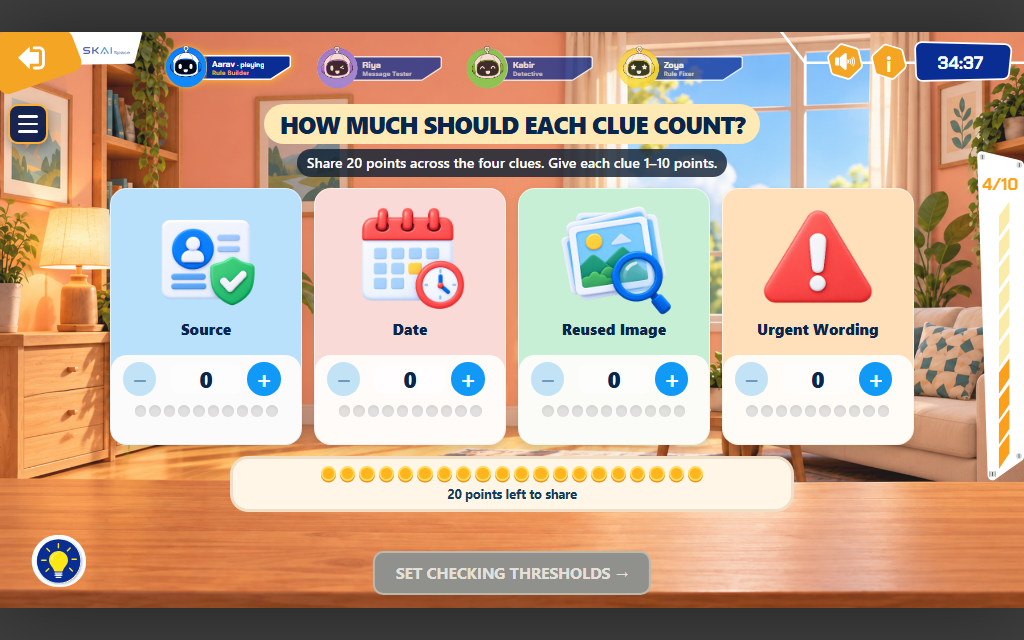
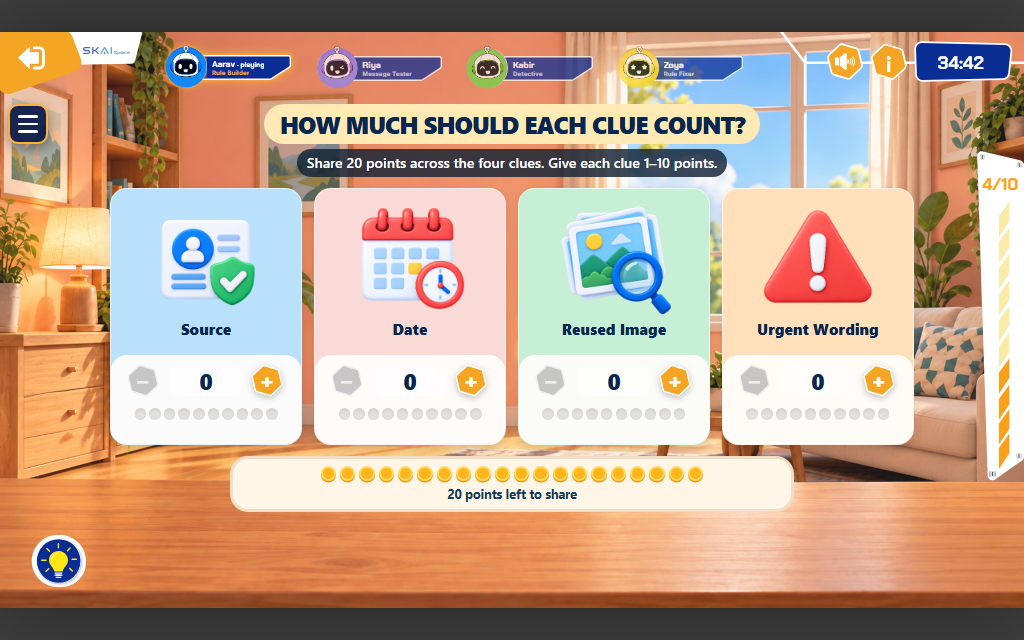
fixing design and layout

diff --git a/styles.css b/styles.css
@@ -1480,3 +1480,55 @@ body { background: #3f3f3f; }
 
 /* CTAs appear only when needed (beats per-screen rules that force disabled buttons visible). */
 #game-shell #stage .bottom-cta:disabled, #game-shell #stage .skai-cta:disabled { visibility: hidden; }
+
+/* Preserve the SKAI plate's native proportions in every layout. */
+#game-shell #stage .primary-cta,
+#game-shell #stage .secondary-cta,
+#game-shell #stage .secondary-cta.small-cta,
+#game-shell #stage .skai-cta,
+#game-shell #stage .intro-next .primary-cta,
+#game-shell #stage .test-screen .checker-bar .primary-cta,
+#game-shell #stage .test-screen .rule-workspace .primary-cta,
+#game-shell #stage .bottom-actions .secondary-cta.small-cta,
+#game-shell .menu-button {
+  box-sizing: border-box;
+  width: calc(475.725 * var(--u));
+  max-width: 100%;
+  min-width: 0;
+  height: auto;
+  min-height: 0;
+  aspect-ratio: 475.725 / 135.125;
+  flex: 0 0 auto;
+  align-self: center;
+  padding: calc(24 * var(--u)) calc(45 * var(--u)) calc(12 * var(--u));
+  white-space: normal;
+  line-height: 1.12;
+}
+#game-shell #stage .test-screen .rule-workspace .primary-cta,
+#game-shell #stage .test-screen .checker-bar .primary-cta { justify-self: end; }
+#game-shell .menu-button { display: block; margin-left: auto; margin-right: auto; }
+
+/* Shared player/role handoff, over the unchanged mission scene. */
+#turn-modal { background: #111c32a8; backdrop-filter: blur(6px); }
+#turn-modal .turn-dialog { width: min(1120px,86vw); max-height: 90vh; overflow-y: auto; padding: clamp(20px,3vw,42px); border: 2px solid #fff; border-radius: 38px; background: #fffdfa; color: #102c53; box-shadow: 0 24px 70px #07192f40; text-align: center; }
+#turn-modal .turn-kicker { display: table; margin: 0 auto 22px; padding: 7px 35px; border-radius: 999px; background: #e0efff; color: #123e76; font: 800 clamp(13px,1.5vw,22px)/1.2 'Segoe UI',sans-serif; letter-spacing: .05em; }
+.turn-layout { display: grid; grid-template-columns: 30% minmax(0,1fr); gap: 32px; align-items: center; }
+.turn-identity { padding-right: 28px; border-right: 2px solid #e8edf2; min-width: 0; }
+#turn-avatar { width: min(100%,250px); aspect-ratio: 1; margin: 0 auto 14px; display: grid; place-items: center; border-radius: 50%; background: color-mix(in srgb,var(--turn-accent) 20%,white); }
+#turn-avatar .turn-avatar { display: block; width: 94%; height: 94%; }
+.turn-nameplate { padding: 10px; border-radius: 25px; background: color-mix(in srgb,var(--turn-accent) 12%,white); }
+#turn-name { display: block; font-size: clamp(20px,2.4vw,34px); line-height: 1.2; overflow-wrap: anywhere; }
+#turn-role { display: block; margin-top: 8px; padding: 7px 12px; background: var(--turn-accent); color: white; border-radius: 999px; font-size: clamp(13px,1.4vw,20px); font-weight: 750; }
+#turn-modal h2 { margin: 0 0 15px; color: #102c53; font: 800 clamp(26px,3.4vw,48px)/1.15 'Segoe UI',sans-serif; overflow-wrap: anywhere; }
+#turn-title span { color: var(--turn-accent); }
+#turn-modal #turn-task { font-size: clamp(15px,1.8vw,25px); line-height: 1.4; margin: 0; }
+#turn-art { display: flex; justify-content: center; gap: 12px; margin: 20px 0 10px; }
+.turn-clue { display: grid; place-items: center; width: 23%; aspect-ratio: 1; background: #dcefff; border-radius: 22px; }
+.turn-clue:nth-child(2) { background: #ffe4e7; }.turn-clue:nth-child(3) { background: #e0f3d8; }.turn-clue:nth-child(4) { background: #ffead0; }
+.turn-clue img { width: 90%; height: 90%; object-fit: contain; }
+.turn-task-icon { width: clamp(64px,8vw,115px); height: clamp(64px,8vw,115px); object-fit: contain; }
+#turn-modal .turn-team-note { border: 0; padding: 0; margin: 10px 0 18px; font-size: clamp(13px,1.4vw,19px); color: #375475; }
+#turn-modal #turn-ready { width: 80%; aspect-ratio: auto; margin: 0 auto; padding: 15px 25px; border: 2px solid #edf7ff; border-radius: 999px; background: linear-gradient(120deg,#159aff,#0075f5); color: white; font: 800 clamp(20px,2.3vw,32px)/1.2 'Segoe UI',sans-serif; box-shadow: 0 6px 15px #0879eb25; clip-path: none; }
+#turn-modal[data-task="ranking"] #turn-ready { background: linear-gradient(120deg,#ffe675,#ffd039); color: #102c53; border-color: #fff0b8; }
+@media (max-height: 700px) { #turn-modal .turn-dialog { padding: 20px 26px; } #turn-modal .turn-kicker { margin-bottom: 14px; } #turn-avatar { max-width: 170px; } #turn-art { margin: 12px 0 6px; } .turn-clue { max-width: 90px; } }
+@media (max-width: 650px) { .turn-layout { grid-template-columns: 1fr; gap: 16px; } .turn-identity { border: 0; padding: 0; display: flex; gap: 12px; align-items: center; } #turn-avatar { width: 85px; margin: 0; flex: none; } .turn-nameplate { flex: 1; } }

diff --git a/game.js b/game.js
@@ -284,7 +284,14 @@
       const tasks = { ranking: 'Share 20 points across the four clues using plus and minus. Discuss each weight; every clue needs 1–10 points.', test: 'Read the message aloud. Ask your team about the four clues, then press Check.', cause: 'Compare the result with the evidence. Choose the clue that caused the mistake.', adjust: 'Listen to the detective, move one star, then ask the tester to retest.', retest: 'Read the new result aloud. Check whether the change helped or created another mistake.' };
       if (tasks[view] && (previousOwner !== state.activePlayerIndex || view === 'ranking')) {
         const modal = document.querySelector('#turn-modal');
-        document.querySelector('#turn-title').textContent = `${activePlayerName()}, your turn`;
+        modal.dataset.task = view;
+        modal.style.setProperty('--turn-accent', ['#008c9b','#d62478','#bd6a08','#7754ba'][state.activePlayerIndex]);
+        document.querySelector('#turn-title').innerHTML = `<span>${escapeHtml(activePlayerName())},</span> your turn`;
+        document.querySelector('#turn-name').textContent = activePlayerName();
+        document.querySelector('#turn-avatar').innerHTML = avatarMarkup(state.avatars[state.activePlayerIndex], 'turn-avatar');
+        document.querySelector('#turn-art').innerHTML = view === 'ranking'
+          ? CLUES.map(clue => `<span class="turn-clue"><img src="${clue.icon}" alt=""></span>`).join('')
+          : `<img class="turn-task-icon" src="assets/icons/role_${({test:'tester',cause:'detective',adjust:'fixer',retest:'tester'})[view]}_v2.png" alt="">`;
         document.querySelector('#turn-role').textContent = teamRoles()[state.activePlayerIndex];
         document.querySelector('#turn-task').textContent = tasks[view];
         modal.hidden = false;
@@ -561,7 +568,7 @@
     const tasks = state.playerCount === 4
       ? ['Share 20 points across the four clues. Then set how carefully the checker checks.', 'Read each message, run its checks, and retest the repaired rule.', 'Find the clue behind each mistake.', 'Move stars to repair the rule.']
       : ['Share 20 points across the four clues. Then set how carefully the checker checks.', 'Read each message, run its checks, and retest the repaired rule.', 'Find each mistake and move stars to repair the rule.'];
-    const roleIcons = ['assets/icons/icon_source_3d.png', 'assets/icons/icon_date_3d.png', 'assets/icons/icon_image_3d.png', 'assets/icons/icon_urgent_words_3d.png'];
+    const roleIcons = ['assets/icons/role_builder_v2.png', 'assets/icons/role_tester_v2.png', 'assets/icons/role_detective_v2.png', 'assets/icons/role_fixer_v2.png'];
     stage.innerHTML = `<section class="screen roles-screen" data-team-size="${state.playerCount}">
       <header class="mission-team-heading"><h1 class="screen-heading">Meet Your Mission Team</h1><p class="screen-support">Everyone has a role. Work together to build and test the checker.</p></header>
       <div class="role-grid">${state.players.map((name, i) => `<article class="panel role-card" style="--role-accent:${['#08b6bf','#ef438f','#ff951b','#8262cf'][i]}">

diff --git a/index.html b/index.html
@@ -95,11 +95,10 @@
     <div id="turn-modal" class="modal" hidden>
       <div class="modal-card turn-dialog" role="dialog" aria-modal="true" aria-labelledby="turn-title">
         <span class="turn-kicker">PASS THE DEVICE</span>
-        <h2 id="turn-title"></h2>
-        <strong id="turn-role"></strong>
-        <p id="turn-task"></p>
-        <p class="turn-team-note">Everyone can discuss the evidence. The named player controls this step.</p>
-        <button class="menu-button primary" id="turn-ready" type="button">I'm ready</button>
+        <div class="turn-layout">
+          <div class="turn-identity"><div id="turn-avatar"></div><div class="turn-nameplate"><strong id="turn-name"></strong><span id="turn-role"></span></div></div>
+          <div class="turn-content"><h2 id="turn-title"></h2><p id="turn-task"></p><div id="turn-art" aria-hidden="true"></div><p class="turn-team-note">Talk it through with your team. This player controls the next step.</p><button class="menu-button primary" id="turn-ready" type="button">I’m ready <span aria-hidden="true">→</span></button></div>
+        </div>
       </div>
     </div>
     <div id="loading" class="loading">

diff --git a/assets/icons/ROLE_ICONS_PROMPTS.md b/assets/icons/ROLE_ICONS_PROMPTS.md
@@ -1,0 +1,20 @@
+# Role icons v2
+
+Generated with the built-in image tool using the imagegen skill. Separate transparent PNG assets; existing avatars and backgrounds are unchanged.
+
+## role_builder_v2.png
+
+Use case: stylized-concept. Asset type: separate game UI role icon for a friendly educational fake-message detector game. Subject: A small rounded ivory control panel with three teal slider tracks and golden circular point tokens, representing assigning clue weights. Style: polished soft 3D clay illustration, rounded chunky forms, matte surfaces, soft upper-left studio lighting, restrained depth, clean silhouette readable at 64px. Palette ivory, navy, sky blue, teal and warm golden yellow matching pastel cards and a cozy illustrated living-room game. Centered single icon with 12 percent transparent padding, square canvas, genuinely transparent background. No scene, no card frame, no lettering, no watermark, no heavy black outlines. This is one standalone asset, not a sprite sheet.
+
+## role_tester_v2.png
+
+Use case: stylized-concept. Asset type: separate game UI role icon for a friendly educational fake-message detector game. Subject: A rounded blue smartphone displaying a white message bubble, with a large mint-green check badge in front, representing testing messages. Style: polished soft 3D clay illustration, rounded chunky forms, matte surfaces, soft upper-left studio lighting, restrained depth, clean silhouette readable at 64px. Palette ivory, navy, sky blue, teal and warm golden yellow matching pastel cards and a cozy illustrated living-room game. Centered single icon with 12 percent transparent padding, square canvas, genuinely transparent background. No scene, no card frame, no lettering, no watermark, no heavy black outlines. This is one standalone asset, not a sprite sheet.
+
+## role_detective_v2.png
+
+Use case: stylized-concept. Asset type: separate game UI role icon for a friendly educational fake-message detector game. Subject: A large blue magnifying glass inspecting a white message bubble with two short blue text bars and a small amber question mark, representing finding misleading evidence. Style: polished soft 3D clay illustration, rounded chunky forms, matte surfaces, soft upper-left studio lighting, restrained depth, clean silhouette readable at 64px. Palette ivory, navy, sky blue, teal and warm golden yellow matching pastel cards and a cozy illustrated living-room game. Centered single icon with 12 percent transparent padding, square canvas, genuinely transparent background. No scene, no card frame, no lettering, no watermark, no heavy black outlines. This is one standalone asset, not a sprite sheet.
+
+## role_fixer_v2.png
+
+Use case: stylized-concept. Asset type: separate game UI role icon for a friendly educational fake-message detector game. Subject: A chunky teal wrench beside a small golden gear, representing repairing the message-checking rule. Style: polished soft 3D clay illustration, rounded chunky forms, matte surfaces, soft upper-left studio lighting, restrained depth, clean silhouette readable at 64px. Palette ivory, navy, sky blue, teal and warm golden yellow matching pastel cards and a cozy illustrated living-room game. Centered single icon with 12 percent transparent padding, square canvas, genuinely transparent background. No scene, no card frame, no lettering, no watermark, no heavy black outlines. This is one standalone asset, not a sprite sheet.
+
